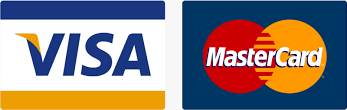
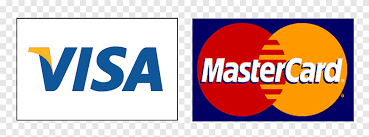
multiple changes

diff --git a/checkout.html b/checkout.html
@@ -26,52 +26,52 @@
                     <div class="row pt-4">
                         <div class="col-lg-6 pl-0">
                             <div class="form-group">
-                                <input type="text" class="form-control" placeholder="Full Name" pattern=[A-Za-z] required>
+                                <input type="text" class="form-control" placeholder="Full Name" id="fullName" pattern=[A-Za-z] required>
                             </div>
                             <div class="form-group">
-                                <input type="email" class="form-control" placeholder="Email" required>
+                                <input type="email" class="form-control" placeholder="Email" id="email" required>
                             </div>
                             <div class="form-group">
                                 <textarea class="form-control" rows="5" placeholder="Address" id="Address" pattern=[0,9]{1,4}\s[a-zA-Z]{1,40}
                                     required></textarea>
                             </div>
                             <div class="form-group">
-                                <input type="text" class="form-control" placeholder="City" pattern=[a-zA-Z]{60} required>
+                                <input type="text" class="form-control" placeholder="City" id="city" pattern=[a-zA-Z]{60} required>
                             </div>
                             <div class="row">
                                 <div class="col-lg-6 pl-0">
                                     <div class="form-group">
-                                        <input type="text" class="form-control" placeholder="County" pattern=[a-zA-Z]{30} required>
+                                        <input type="text" class="form-control" placeholder="County" id="county" pattern=[a-zA-Z]{30} required>
                                     </div>
                                 </div>
                                 <div class="col-lg-6 pr-0 mob-pl-0">
                                     <div class="form-group">
-                                        <input type="number" class="form-control" placeholder="Post Code" pattern=[a-zA-Z]{2}[0,9]{1,2}[0,9]{1}[a-zA-Z]{2} required>
+                                        <input type="number" class="form-control" placeholder="Post Code" id="postCode" pattern=[a-zA-Z]{2}[0,9]{1,2}[0,9]{1}[a-zA-Z]{2} required>
                                     </div>
                                 </div>
                             </div>
                         </div>
                         <div class="col-lg-6 mob-pl-0">
                             <div class="form-group">
-                                <input type="text" class="form-control" placeholder="Enter Name on card" pattern=[a-zA-Z]{40}  required>
+                                <input type="text" class="form-control" placeholder="Enter Name on card" id="cardName" pattern=[a-zA-Z]{40}  required>
                             </div>
                             <div class="form-group">
-                                <input type="number" class="form-control" placeholder="Enter Card number" pattern=[0,9]{4}\s[0,9]{4}\s[0,9]{4}\s[0,9]{4}  required>
+                                <input type="number" class="form-control" placeholder="Enter Card number" id="cardNum" pattern=[0,9]{4}\s[0,9]{4}\s[0,9]{4}\s[0,9]{4}  required>
                             </div>
                             <div class="row">
                                 <div class="col-lg-6 pl-0">
                                     <div class="form-group">
-                                        <input type="text" class="form-control" placeholder="mm/yy" required>
+                                        <input type="text" class="form-control" placeholder="mm/yy" id="expDate" required>
                                     </div>
                                 </div>
                                 <div class="col-lg-6 pr-0 mob-pl-0">
                                     <div class="form-group">
-                                        <input type="number" class="form-control" placeholder="CVV" pattern=[0,9]{3} required>
+                                        <input type="number" class="form-control" placeholder="CVV" id="ccvNum" pattern=[0,9]{3} required>
                                     </div>
                                 </div>
                                 <div class="col-md-12 p-0 text-center">
                                     <p class="mb-1 pb-2" id="acceptedCards">Accepted Cards</p>
-                                    <img src=".\pics\payment.jpg" class="w-100">
+                                    <img src=".\pics\payment.png" alt="picture of bank cards" class="w-100">
                                 </div>
                             </div>
                         </div>
